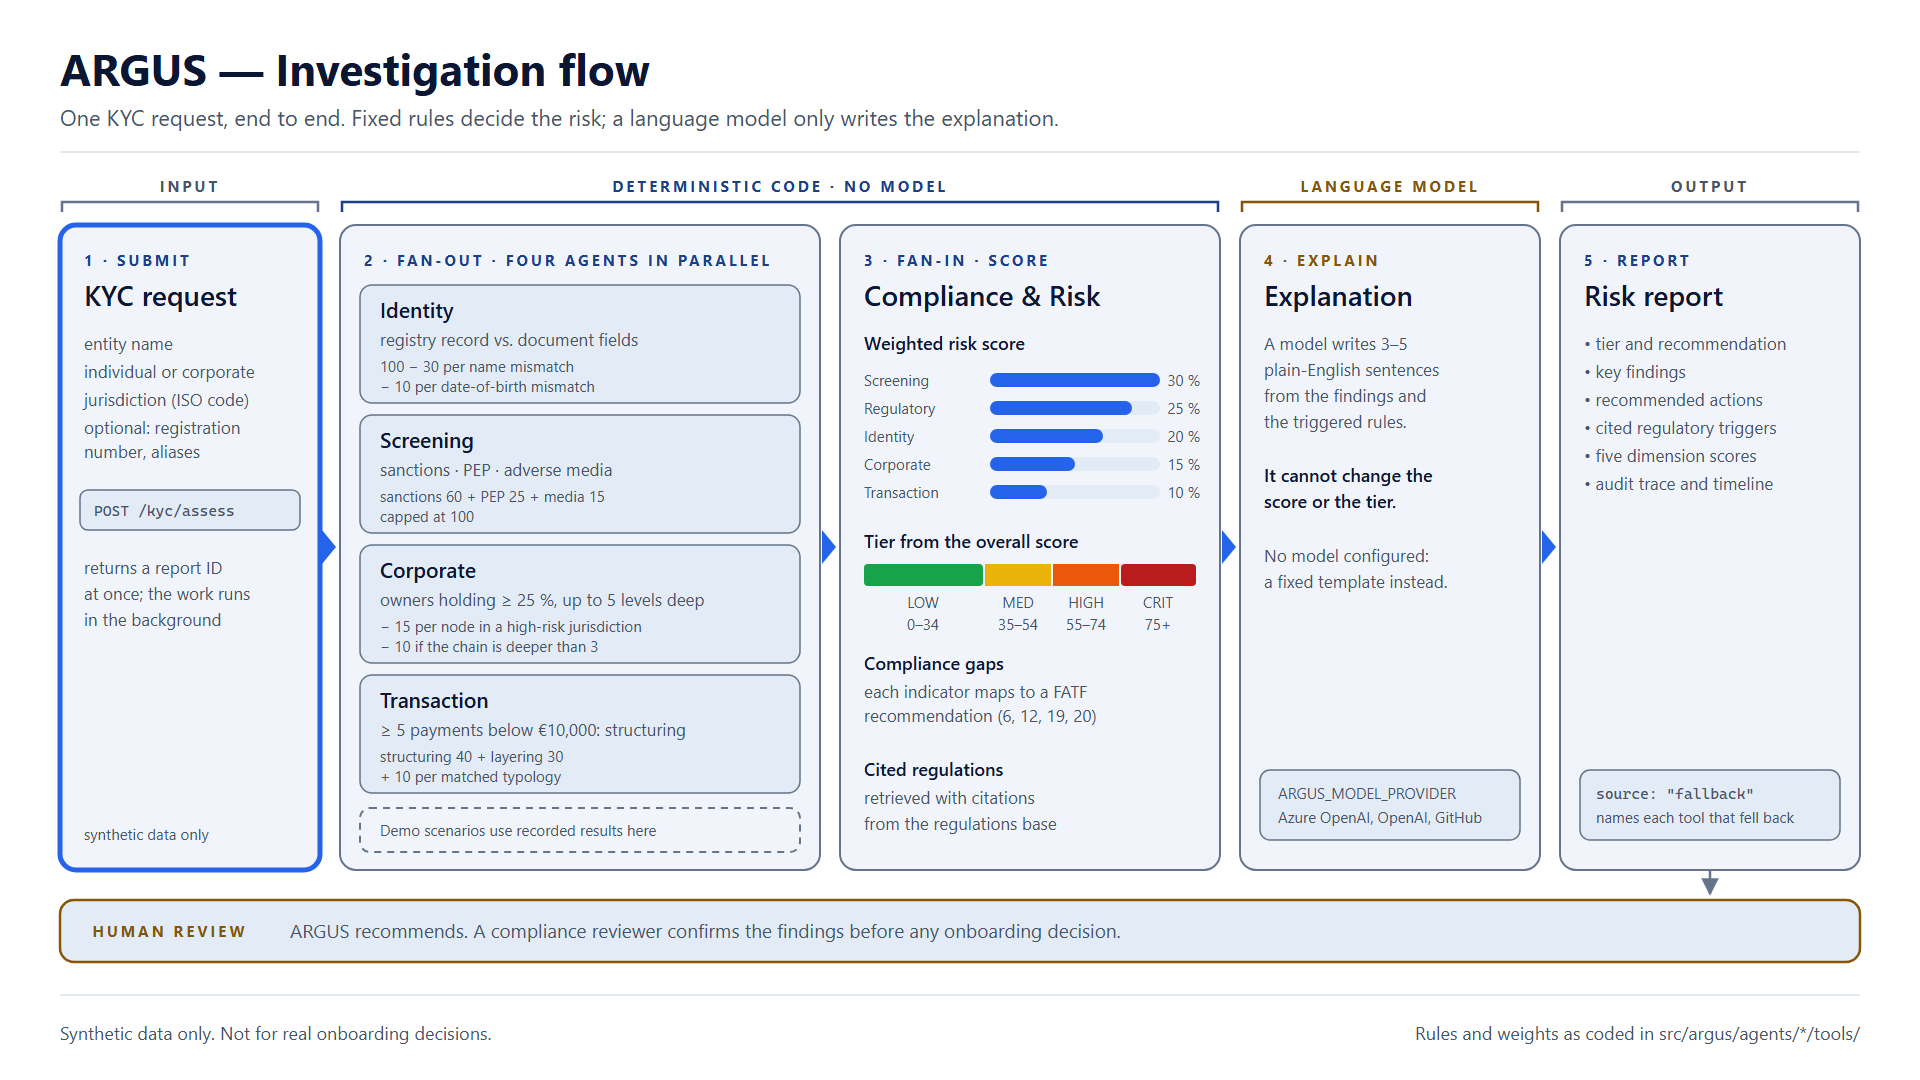
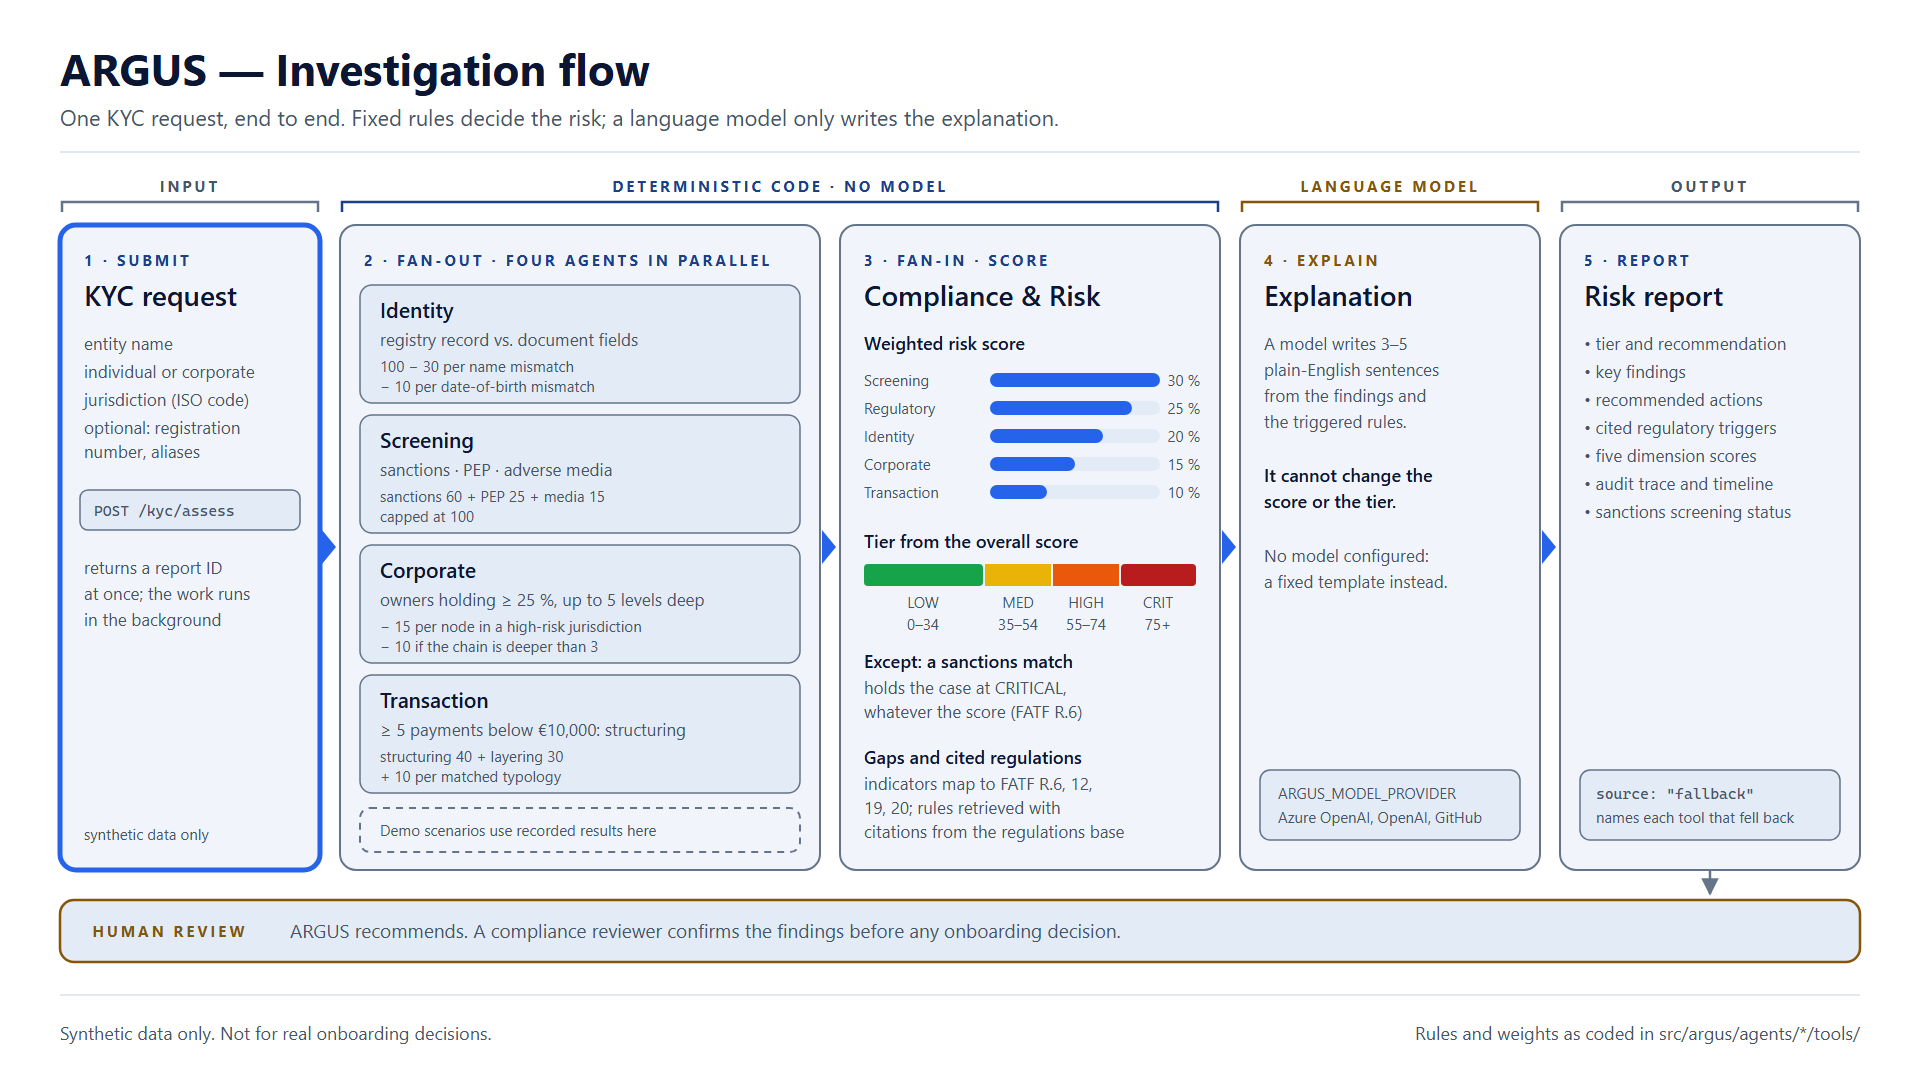
docs: write down risk scoring, the sanctions hold and what reports do not claim
ARCHITECTURE gains a Risk scoring section, including two rules that were in no document (the
Regulatory estimate and the adverse-media boost). The investigation-flow diagram shows the
sanctions exception and the sanctions status; README and CHANGELOG follow. The known issue about
sanctions scoring LOW is replaced by the PEP one that remains.

Changed region(s): [[0.4375, 0.6111, 0.5938, 0.7944], [0.8438, 0.4583, 0.9375, 0.4889]]

diff --git a/CHANGELOG.md b/CHANGELOG.md
@@ -92,6 +92,22 @@ are listed in [`archive/hackathon-2026/README.md`](archive/hackathon-2026/README
 
 ### Changed
 
+- **A potential sanctions match holds the case at CRITICAL, whatever the weighted score.**
+  Sanctions are not a weighted risk: FATF Recommendation 6 requires funds of listed persons to be
+  frozen without delay, and the Wolfsberg Group's sanctions-screening guidance has a person confirm
+  or clear each match. The report says what set the tier (`risk_summary.tier_basis`: `score` or
+  `sanctions_match`), recommends a hold until a compliance officer confirms or clears the match,
+  and says to freeze and report if it is confirmed. The weights and score bands are unchanged.
+  Checked: a sanctions-only case (weighted score 21) now reports CRITICAL; the six demo scenarios
+  keep every score, and only Cayman Synth Capital changes tier (HIGH to CRITICAL).
+- **The report says whether sanctions screening ran** (`risk_summary.sanctions_screening`:
+  `potential_match`, `no_match` or `not_run`). A case whose screening agent failed or whose
+  sanctions search fell back is reported as incomplete instead of being recommended for standard
+  onboarding. Checked: a test for each way screening can fail to run.
+- **Risk scoring is written down** in `docs/ARCHITECTURE.md`, including two rules that were in the
+  code but in no document: the Regulatory dimension is estimated from PEP, adverse-media and
+  ownership flags, not from retrieved regulations, and adverse media alone adds 12 points when the
+  screening score is at least 70 (reached today only by recorded demo profiles).
 - **Reports are stored through the report store:** in memory with the local backend, in Cosmos
   DB (`kyc_reports`) with the Azure one, replacing the gateway's module-level dicts.
 - **Browser origins allowed to call the API come from `ARGUS_CORS_ORIGINS`** (none by default)
@@ -143,6 +159,16 @@ are listed in [`archive/hackathon-2026/README.md`](archive/hackathon-2026/README
 
 ### Fixed
 
+- **The report no longer shows a confidence it never computed.** Every report said 83%
+  (`risk_summary.confidence`), and every PEP finding said 0.92; both were fixed numbers. The
+  Gradio decision card shows what set the tier and the sanctions screening status instead.
+- **The regulations knowledge base says what its sources say.** Checked against the published
+  texts: FATF Recommendation 20 no longer carries two sentences that are not in it; the 6th AML
+  Directive's predicate offences are cited to Article 2, not Article 3; the enhanced due diligence
+  entry names 4AMLD Article 18a; the DORA entry separates Article 5 from Article 6; the Wolfsberg
+  entry is the AML Principles for Private Banking, which it quotes; and FATF Recommendation 12
+  now includes family members and close associates. FATF Recommendation 6 (targeted financial
+  sanctions) was missing and is added, so a sanctions case can cite it.
 - **Unknown entities no longer get invented evidence.** When a data service was unavailable,
   tools returned fabricated positives: a registry match (`MOCK-001`), a 51% beneficial owner, a
   transaction history with a structuring pattern for any name, OCR fields that then failed the
@@ -191,6 +217,7 @@ are listed in [`archive/hackathon-2026/README.md`](archive/hackathon-2026/README
   Intelligence are tested against stand-ins for their SDKs; they are verified during deployment.
 - **No local OCR engine yet.** With the local backend, identity documents are reported as unread
   (`fallback`) until Tesseract is added.
-- **A sanctions match alone scores LOW.** Screening weighs 30% and the regulatory estimate has no
-  sanctions term, so an entity whose only signal is a sanctions hit scores about 18 (seen with the
-  generated data). The weights and thresholds are unchanged by this work.
+- **A PEP match does not set a minimum tier.** It raises the score and adds the enhanced due
+  diligence actions, but a PEP-only case can be LOW or MEDIUM. FATF Recommendation 12 makes
+  enhanced measures mandatory for foreign PEPs and risk-based for domestic ones, and ARGUS does not
+  yet tell them apart.

diff --git a/docs/ARCHITECTURE.md b/docs/ARCHITECTURE.md
@@ -53,6 +53,44 @@ profile. The compliance fan-in still runs live.
 
 An agent that is unreachable is recorded as `status: error` and the assessment continues without it.
 
+## Risk scoring
+
+All in [`src/argus/agents/compliance/`](../src/argus/agents/compliance/); no model is involved.
+Each agent's own rules are drawn in
+[`investigation-flow.svg`](../assets/architecture/investigation-flow.svg).
+
+**Weighted score (0–100).** Screening 30%, Regulatory 25%, Identity 20%, Corporate 15%,
+Transaction 10%. The Regulatory dimension is an estimate from other agents' flags, not from
+retrieved regulations: PEP 45, adverse media 35, 15 per ownership risk flag, capped at 100. When
+adverse media is the only screening hit and the screening score is at least 70, 12 points are
+added; today only recorded demo profiles reach that screening score, because live screening
+scores adverse media alone at 15.
+
+**Tier.** LOW 0–34, MEDIUM 35–54, HIGH 55–74, CRITICAL 75 and above, with one exception:
+
+- **A potential sanctions match holds the case at CRITICAL, whatever the score**
+  (`risk_summary.tier_basis: sanctions_match`). Sanctions are not a risk to be weighed: FATF
+  Recommendation 6 requires funds of listed persons to be frozen without delay, and the Wolfsberg
+  Group's sanctions-screening guidance treats each match as an alert that a person confirms or
+  clears. ARGUS finds a match when the entity's full name, or one alias, appears in a retrieved
+  listing, so it is always *potential*. The report recommends a hold until a compliance officer
+  confirms or clears it, and says what to do if it is confirmed.
+- Otherwise `tier_basis` is `score`.
+
+**Sanctions screening status** (`risk_summary.sanctions_screening`): `potential_match`,
+`no_match`, or `not_run` when the screening agent failed or its sanctions search fell back. A
+`not_run` case is reported as incomplete whatever its tier, because no match found is not the same
+as no screening done.
+
+**What the report does not claim.** It carries no confidence figure: nothing in ARGUS computes
+one. A PEP match raises the score and adds the enhanced due diligence actions and the FATF
+Recommendation 12 gap, but does not set a minimum tier: Recommendation 12 makes enhanced measures
+mandatory for foreign PEPs and risk-based for domestic ones, and ARGUS does not yet tell them apart.
+
+Sources: [FATF Recommendations](https://www.fatf-gafi.org/en/publications/Fatfrecommendations/Fatf-recommendations.html)
+(R.6, R.12 and the glossary's "without delay");
+[Wolfsberg Guidance on Sanctions Screening](https://wolfsberg-group.org/resources/168/53).
+
 ## Provenance: where each result came from
 
 Every agent response carries a `source`, and the report's `audit_trace` collects them in

diff --git a/README.md b/README.md
@@ -145,7 +145,7 @@ Longer-term ideas, not yet scheduled, live in [`docs/roadmap/`](docs/roadmap/): 
 
 | Scenario | Entity | Type | Jurisdiction | Expected |
 | --- | --- | --- | --- | --- |
-| 🔴 High Risk | `Cayman Synth Capital` | corporate | KY | HIGH — Enhanced Due Diligence |
+| 🔴 Sanctions Hold | `Cayman Synth Capital` | corporate | KY | CRITICAL — Hold until the sanctions match is confirmed or cleared |
 | 🟠 Medium Risk | `Synthetic Holdings B.V.` | corporate | NL | MEDIUM — Elevated monitoring |
 | 🟢 Low Risk | `Jane Synthetic` | individual | DE | LOW — Standard onboarding |
 | 🔴 Public High Risk | `Wirecard AG` | corporate | DE | HIGH — Enhanced Due Diligence |
@@ -156,7 +156,7 @@ These use recorded demo profiles for the parallel agents (see the status table a
 
 ### What a report shows
 
-- **Decision card** — risk tier, score, confidence, top three drivers
+- **Decision card** — risk tier, score, what set the tier (the score band or a sanctions hold), the sanctions screening status, top three drivers
 - **Risk dimensions** — score and tier for Identity, Screening, Corporate, Regulatory and Transaction
 - **Investigation timeline** — completion time for each agent and total latency
 - **Citations** — the knowledge base, source document and article behind each regulatory trigger
